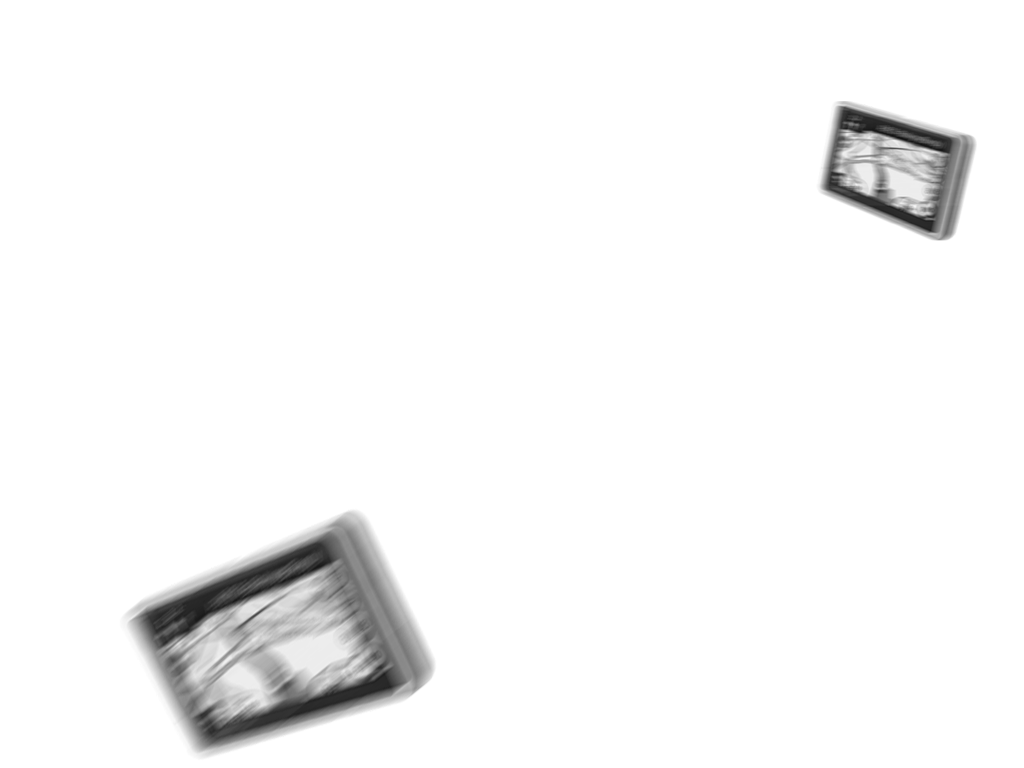
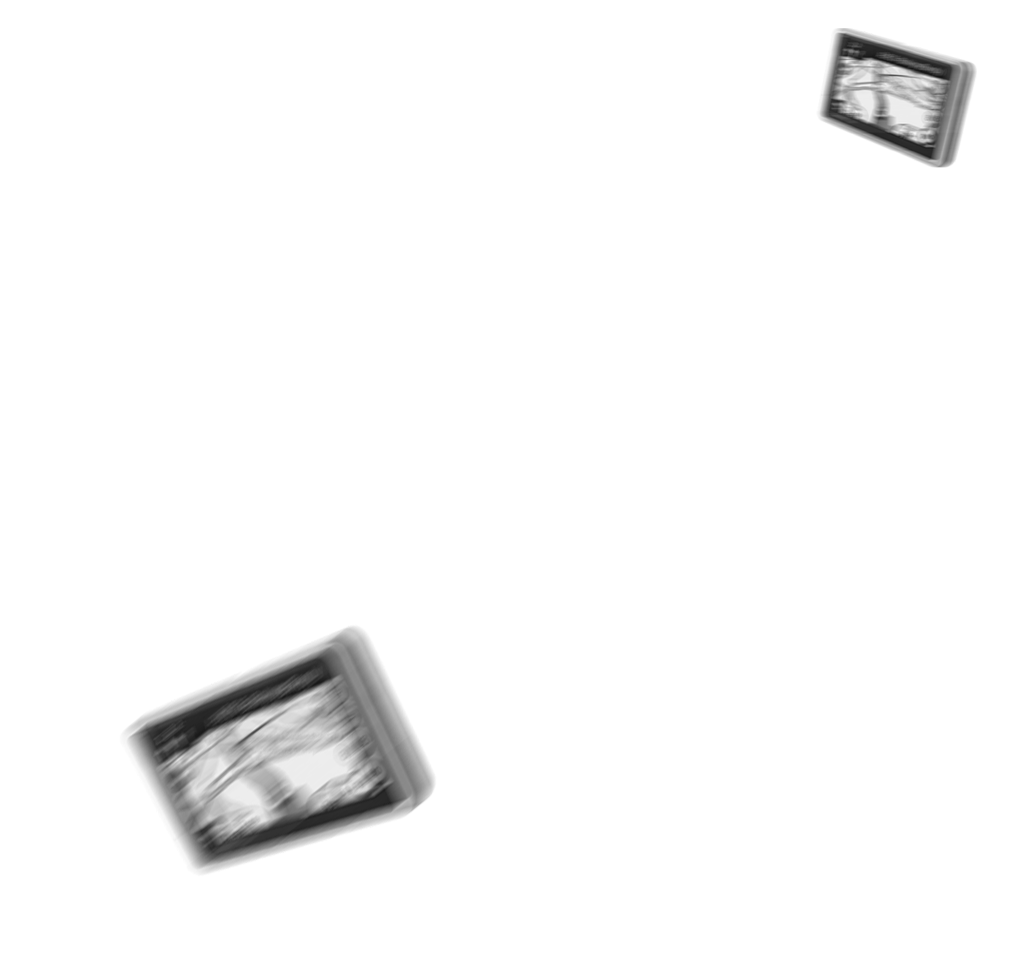
image

Changed region(s): [[0.125, 0.6562, 0.4375, 1.0], [0.7812, 0.0312, 0.9688, 0.3125]]

diff --git a/_js/script.js b/_js/script.js
@@ -139,9 +139,9 @@ $(function () {
 	$('#fotos').parallax("50%", 0, 0.3, true);
 	$('.pafotos').parallax("50%", 4000, 0.4, true);
 	$('#praktisch').parallax("50%", 0, 0.3, true);
-	$('.papraktisch').parallax("50%", 5500, 0.4, true);
-	$('#video').parallax("50%", 600, 0.3, true);
-	$('.pavideo').parallax("50%", 6600, 0.4, true);
+	$('.papraktisch').parallax("50%", 5300, 0.4, true);
+	$('#video').parallax("0", 600, 0.3, true);
+	$('.pavideo').parallax("20%", 6600, 0.4, true);
 	$('#nieuws').parallax("50%", 2750, 0.3, true);
 	$('.panieuws').parallax("270px", 7900, 0.4, true);
 	

diff --git a/_styles/style.css b/_styles/style.css
@@ -440,7 +440,7 @@ nav#gebouwnav ul li a{
 	background: url(../_images/project_papper.png);
 	width: 665px;
 	padding: 20px 20px 20px 20px;
-	margin: 100px auto 0 auto;	
+	margin: 150px auto 0 auto;	
 	border: 2px solid #ddd;
 	-moz-border-radius: 15px;
 	-webkit-border-radius: 15px;
@@ -465,7 +465,7 @@ nav#gebouwnav ul li a{
 
 #video{
 	background: url(../_images/bg05.jpg) repeat fixed; /*tiles texture*/
-	background-size: 100%;
+	background-size: 1440px;
 	color: white;
 	height: 1300px;
 	margin: 0 auto;
